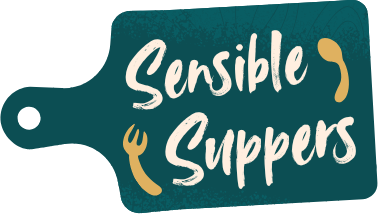
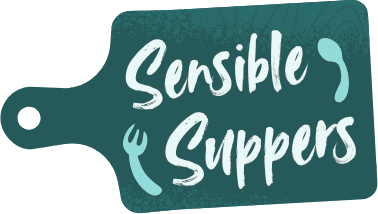
Adding menu.

diff --git a/SensibleSuppers/templates/base.html b/SensibleSuppers/templates/base.html
@@ -14,12 +14,11 @@
       <a class="hero-link" href="{% url 'home' %}" aria-label="Go to homepage">
         <img src="{% static 'SensibleSuppers/images/SensibleSuppers.png' %}" alt="Sensible Suppers" class="hero-image" />
       </a>
-     <p class="tagline">Real food. Real life. Sensible choices.</p>
     </div>
 
     <!-- Second nav bar -->
     <nav class="navbar2">
-  <div class="nav-row"><a class="nav-link" href="{% url 'home' %}">Home</a><a class="nav-link" href="{% url 'entrees' %}">Entrees</a><a class="nav-link" href="{% url 'breakfast' %}">Breakfast</a><a class="nav-link" href="{% url 'desserts' %}">Desserts</a><a class="nav-link" href="{% url 'snacks-dips' %}">Snacks & Dips</a></div>
+  <div class="nav-row"><a class="nav-link" href="{% url 'home' %}">Home</a><a class="nav-link" href="{% url 'entrees' %}">Entrees</a><a class="nav-link" href="{% url 'breakfast' %}">Breakfast</a><a class="nav-link" href="{% url 'desserts' %}">Desserts</a><a class="nav-link" href="{% url 'snacks-dips' %}">Snacks & Appetizers</a><a class="nav-link" href="{% url 'dips' %}">Dips & Sauces</a></div>
  
 </nav>
 <div class="container">

diff --git a/SensibleSuppers/static/css/styles.css b/SensibleSuppers/static/css/styles.css
@@ -6,7 +6,7 @@
     :root {
   --background-color:#f9f9f9;
   --font-color: #333;
-  --primary-color: #0292b7;
+  --primary-color: #00a4ab;
   --second-color: #E67E66;
   --accent-color1: #c5a059; 
   --accent-color2: 

diff --git a/staticfiles/css/styles.css b/staticfiles/css/styles.css
@@ -6,7 +6,7 @@
     :root {
   --background-color:#f9f9f9;
   --font-color: #333;
-  --primary-color: #0292b7;
+  --primary-color: #00a4ab;
   --second-color: #E67E66;
   --accent-color1: #c5a059; 
   --accent-color2: 

diff --git a/DevWriter_Umbrella/settings.py b/DevWriter_Umbrella/settings.py
@@ -20,13 +20,16 @@ BASE_DIR = Path(__file__).resolve().parent.parent
 # Quick-start development settings - unsuitable for production
 # See https://docs.djangoproject.com/en/6.0/howto/deployment/checklist/
 
-# SECURITY WARNING: keep the secret key used in production secret!
-SECRET_KEY = os.environ.get('SECRET_KEY')
+# Look for a secret key in the environment; if not found, use a 'dummy' string
+SECRET_KEY = os.environ.get('SECRET_KEY', 'django-insecure-local-dev-key-123')
+
+# Also, ensure DEBUG is True locally so you can see errors
+DEBUG = os.environ.get('DJANGO_DEBUG', 'True') == 'True'
 
 # SECURITY WARNING: don't run with debug turned on in production!
 DEBUG = False
 
-ALLOWED_HOSTS = [['sensiblesuppers.com', 'www.sensiblesuppers.com', '174.138.66.218', 'localhost']]
+ALLOWED_HOSTS = ['sensiblesuppers.com', 'www.sensiblesuppers.com', '174.138.66.218', 'localhost', '127.0.0.1']
 
 
 # Application definition
@@ -128,10 +131,10 @@ STATIC_URL = 'static/'
 # This is where collectstatic will put your files for production
 STATIC_ROOT = os.path.join(BASE_DIR, 'staticfiles') 
 
-# (Optional) If you have a local static folder in your project
-STATICFILES_DIRS = [
-    os.path.join(BASE_DIR, 'static'),
-]
+
+
+
+
 
 # The absolute filesystem path to the directory that will hold user-uploaded files
 

diff --git a/SensibleSuppers/views.py b/SensibleSuppers/views.py
@@ -25,9 +25,10 @@ def category_view(request, meal_type_key):
     # This maps the key to a nice human-readable title
     titles = {
         'Breakfast': 'Breakfast Recipes',
-        'Sides': 'Sides, Dips, and Appetizers',
+        'Sides': 'Sides & Appetizers',
         'Entree': 'Entree Recipes',
         'Dessert': 'Dessert Recipes',
+        'Dips' : 'Dips & Sauces',
     }
     
     context = {
@@ -42,6 +43,13 @@ def entrees(request):
     return render(request, "SensibleSuppers/home.html", {
         'recipes': recipes, 
         'page_title': 'Entree Recipes'
+    })
+
+def dips(request):
+    recipes = RecipeArticle.objects.filter(mealtype='Dips')
+    return render(request, "SensibleSuppers/home.html", {
+        'recipes': recipes, 
+        'page_title': 'Dips & Sauces Recipes'
     })
 
 def breakfast(request):
@@ -63,7 +71,7 @@ def snacksdips(request):
     recipes = RecipeArticle.objects.filter(mealtype='Sides')
     return render(request, "SensibleSuppers/home.html", {
         'recipes': recipes, 
-        'page_title': 'Sides, Dips, and Appetizers'
+        'page_title': 'Sides & Appetizers Recipes'
     })
 
 class RecipeDetailView(DetailView):

diff --git a/DevWriter_Umbrella/urls.py b/DevWriter_Umbrella/urls.py
@@ -23,7 +23,7 @@ from django.urls import path, include
 
 
 urlpatterns = [
-    path('admin/', admin.site.urls),
+    path('devwriterportal/', admin.site.urls),
     path('', include('SensibleSuppers.urls')), # Make sure this line exists!
     path("SensibleSuppers/", include(("SensibleSuppers.urls", "SensibleSuppers"), namespace="SensibleSuppers")), 
 ]

diff --git a/SensibleSuppers/urls.py b/SensibleSuppers/urls.py
@@ -13,6 +13,8 @@ urlpatterns = [
     path('recipe/<slug:slug>/', RecipeDetailView.as_view(), name='recipe_detail'),
 
     path('entrees/', views.entrees, name='entrees'),
+
+    path('dips/', views.dips, name='dips'),
     
     path('breakfast/', views.breakfast, name='breakfast'),
 
